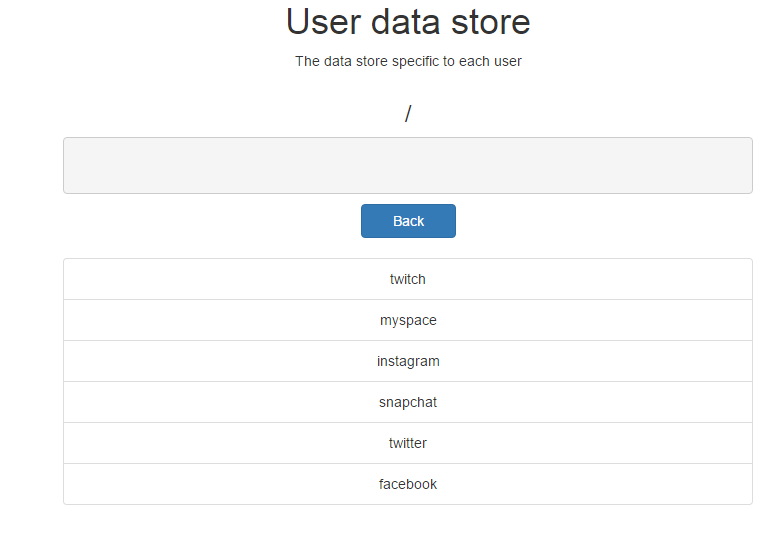
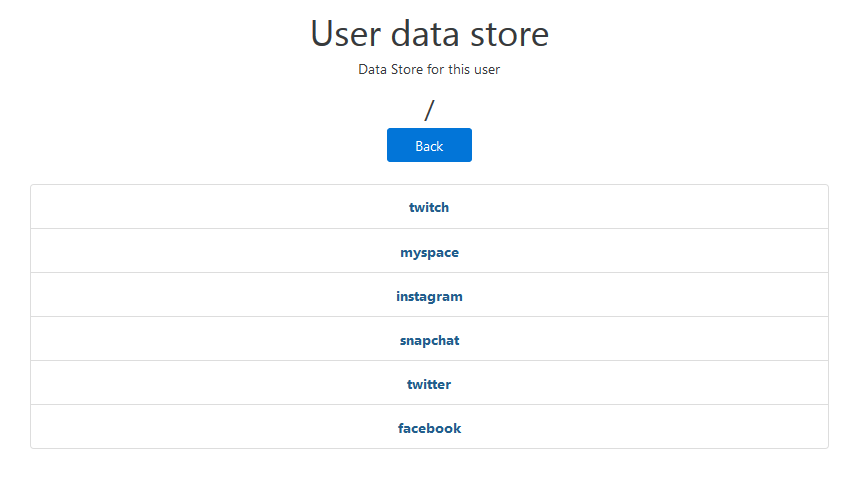
made some styling changes, and changed images in carousel. Removed About page and component

diff --git a/src/app/css-carousel/css-carousel.component.html b/src/app/css-carousel/css-carousel.component.html
@@ -1,4 +1,4 @@
-<div id="carousel-example-generic" class="carousel slide" data-ride="carousel" style="width:65%; margin: 0 auto">
+<div id="carousel-example-generic" class="carousel slide" data-ride="carousel" style="width:80%; margin: 0 auto">
   <ol class="carousel-indicators">
     <li data-target="#carousel-example-generic" data-slide-to="0" class="active"></li>
     <li data-target="#carousel-example-generic" data-slide-to="1"></li>
@@ -7,19 +7,23 @@
   <div class="carousel-inner" role="listbox">
     <div class="carousel-item active">
       <img src="./../../assets/datastore.png" alt="First slide">
-      <h3>Browse the datastore and user data store</h3>
+      <h4>Browse the apps datastore and user datastore</h4>
     </div>
     <div class="carousel-item">
       <img src="./../../assets/datastore_detail_1.png" alt="Second slide">
-      <h3>Add new keys and values to  your apps</h3>
+      <h4>Add new keys and values to your apps</h4>
     </div>
         <div class="carousel-item">
-      <img src="./../../assets/datastore_detail_2.png" alt="Second slide">
-      <h3>Update exisiting values in your apps</h3>
+      <img src="./../../assets/datastore_detail_2.png" alt="Forth slide">
+      <h4>Update exisiting values in your apps</h4>
+    </div>
+    <div class="carousel-item">
+      <img src="./../../assets/newKey.png" alt="Fifth slide">
+      <h4>Add your key with assigned value. Choose whether to encrypt</h4>
     </div>
     <div class="carousel-item">
       <img src="./../../assets/overview.png" alt="Third slide">
-      <h3>Get a sorted overview of all your data</h3>
+      <h4>Get a sorted overview of all your data in the datastore</h4>
     </div>
   </div>
   <a class="left carousel-control" href="#carousel-example-generic" role="button" data-slide="prev">

diff --git a/src/app/pages/home/home.component.html b/src/app/pages/home/home.component.html
@@ -1,18 +1,18 @@
-<h2>{{ title }}</h2>
+<h1>{{ title }}</h1>
 <br>
 <app-css-carousel></app-css-carousel>
 <br>
-<p>
+<div class="container">
+<p id="infotext">
     The data store and user data store are separated by applications you have access too. So choose in the navigation bar above whether
     you would like to see the data store, user data store or an overview of all applications and keys associated with the application
     and some additional information.
     When you are in either the data store or user data store, click the name of the application you would like to see the key/values of.
     In the list of keys you can either create a new key/value pair(also supports encrypted values) or you can click on a key to see the
     value associated with the key, along with some metadata. In here you can also choose to update the value if you wish.
-</p>
 <br>
-<p>
     The overview page gives you an easy way to see a nicely formatted list of all keys associated with all of the applications,
     a long with the time it was created and the timestamp of last update. You can filter this list by typing in the name of the application
     you are interested in. The list is also sortable by application name, keys, when the key was created and when it was last updated. 
 </p>
+</div>

diff --git a/src/app/app-routing.module.ts b/src/app/app-routing.module.ts
@@ -1,7 +1,6 @@
 import { NgModule }     from '@angular/core';
 import { RouterModule } from '@angular/router';
 
-import { AboutComponent }  from './pages/about/about.component';
 import { HomeComponent } from './pages/home/home.component';
 import { OverviewComponent } from './pages/overview/overview.component';
 import { NamespaceComponent } from './namespace/namespace.component';
@@ -15,7 +14,6 @@ import { UserDatastoreComponent } from './pages/user-datastore/user-datastore.co
       { path: 'datastore', component: DatastoreComponent },
       { path: 'userdatastore', component: UserDatastoreComponent },
       { path: 'overview', component: OverviewComponent },
-      { path: 'about', component: AboutComponent },
       { path: 'home', component: HomeComponent },
       { path: '', component: HomeComponent},
       { path: 'namespace', component: NamespaceComponent}

diff --git a/src/app/app.module.ts b/src/app/app.module.ts
@@ -10,7 +10,6 @@ import { AppService } from './app.service';
 import { AppComponent } from './app.component';
 import { NamespaceComponent } from './namespace/namespace.component';
 import { HomeComponent } from './pages/home/home.component';
-import { AboutComponent } from './pages/about/about.component';
 
 import { AppRoutingModule } from './app-routing.module';
 import { DatastoreComponent } from './pages/datastore/datastore.component';
@@ -27,7 +26,6 @@ import { CssCarouselComponent } from './css-carousel/css-carousel.component';
     AppComponent,
     NamespaceComponent,
     HomeComponent,
-    AboutComponent,
     DatastoreComponent,
     UserDatastoreComponent,
     TableComponent,

diff --git a/src/app/app.component.html b/src/app/app.component.html
@@ -21,10 +21,6 @@
                     <li class="nav-item center">
                         <a [routerLink]="['/overview']" routerLinkActive="active" class="nav-link">Overview</a>
                     </li>
-                    <li class="nav-item center">
-                        <a [routerLink]="['/about']" routerLinkActive="active" class="nav-link">About</a>
-
-                    </li>
                 </ul>
             </div>
         </div>

diff --git a/src/app/namespace/namespace.component.css b/src/app/namespace/namespace.component.css
@@ -41,12 +41,14 @@
 }
 
 #newKeyForm {
-    background-color: lightgray;
-    padding: 20px;
+    background-color: #e6e6e6;
+    padding-top: 15px;
+
     width: 80%;
     margin: 0 auto;
+    margin-top: 15px;
     border-radius: 25px;
-    border: 2px solid grey;
+    border: 2px solid #cccccc;
 }
 
 #newKeyLabel {
@@ -64,4 +66,3 @@ pre {
     color: #215e8c;
     cursor: pointer;
 }
-

diff --git a/src/app/pages/home/home.component.css b/src/app/pages/home/home.component.css
@@ -11,3 +11,12 @@ font-size: 100px;
 .carousel-control {
     background-image: 0;
 }
+/*
+app-css-carousel p {
+text-align: justify;
+}*/
+#infotext {
+    -webkit-column-count: 2; /* Chrome, Safari, Opera */
+    -moz-column-count: 2; /* Firefox */
+    column-count: 2;
+}

diff --git a/src/styles.css b/src/styles.css
@@ -18,7 +18,7 @@ body, html {
 .carousel {
     border: solid;
     border-color: #215e8c;
-    border-width: 3px;
+    border-width: 2px;
    
 }
 .carousel-control .icon-next, .carousel-control .icon-prev {

diff --git a/src/app/app.component.css b/src/app/app.component.css
@@ -76,11 +76,7 @@ body {
     padding-top: 58px;
 }
 
-
-
 footer {
-  
-
    
    left:0px;
    bottom:0px;
